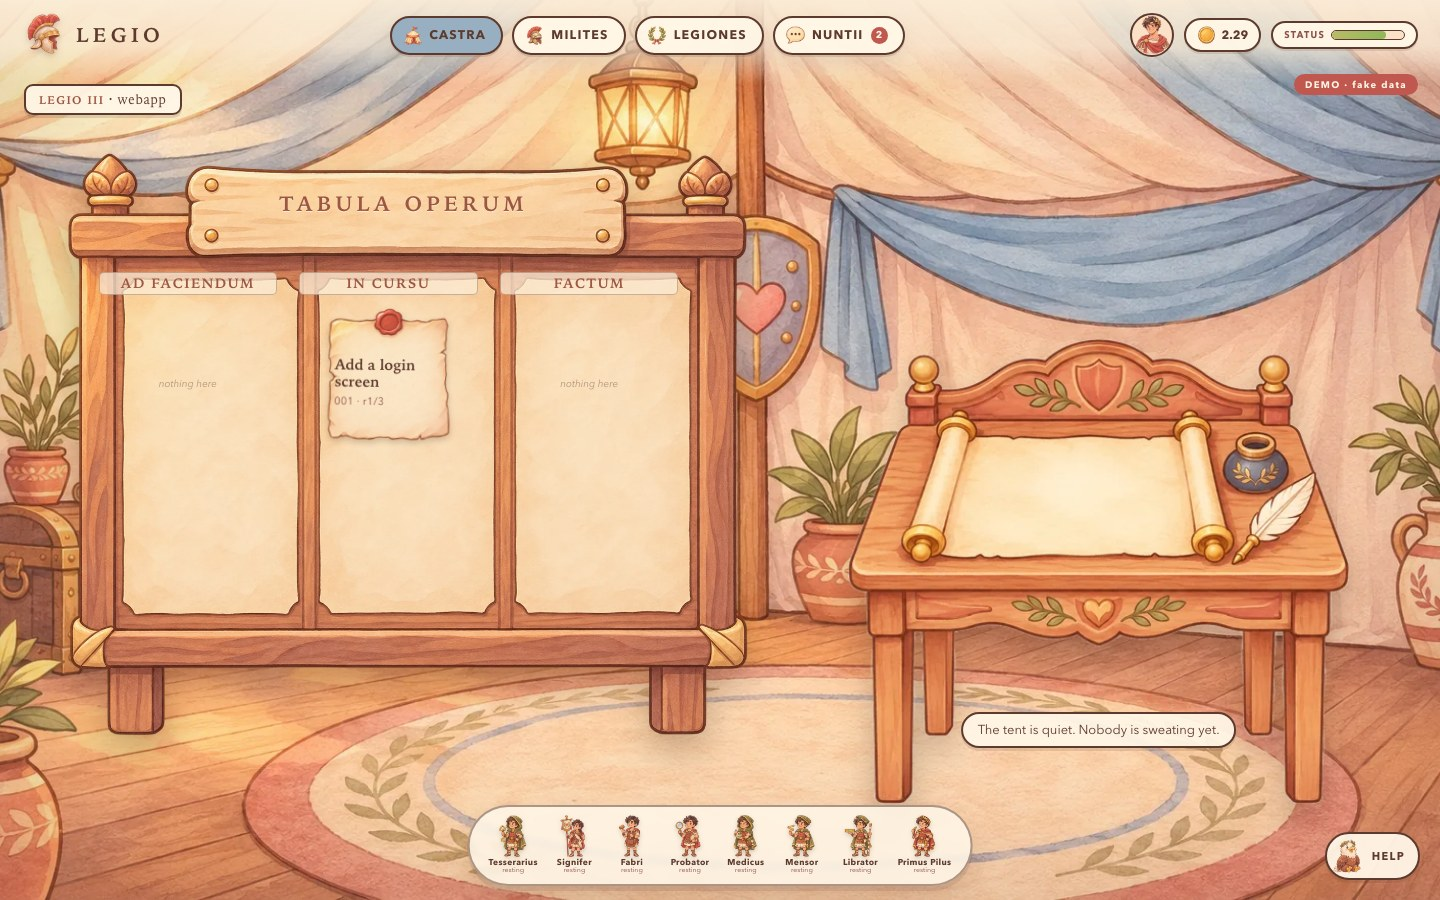
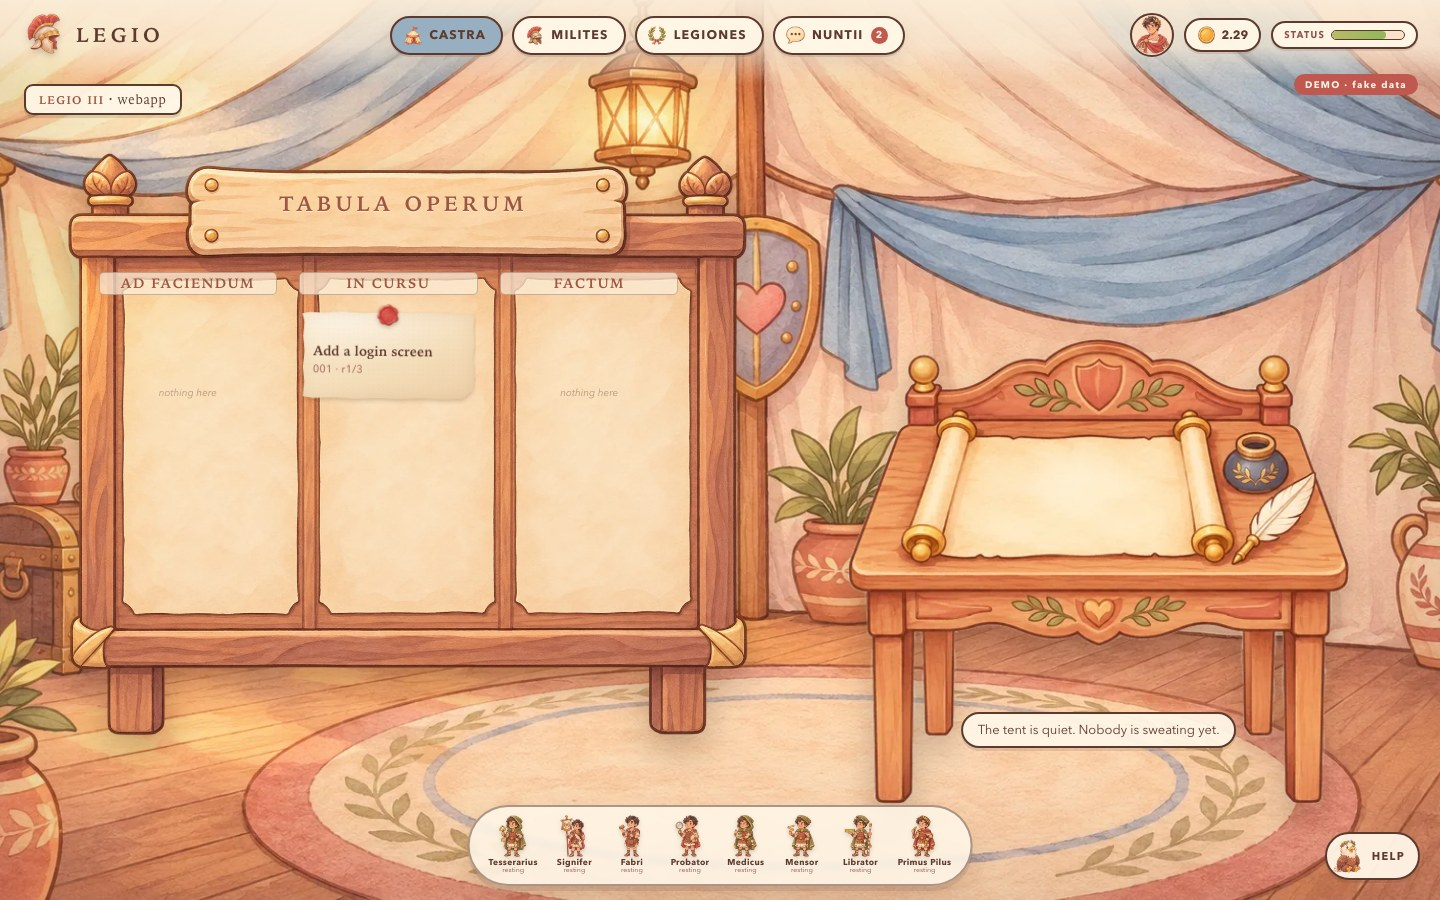
web: flatter notes, so a lane holds three or more
The square art note only let a column hold two jobs before scrolling. The
parchment is now a CSS card (ragged clip path, paper grain, warm gradient)
with the wax seal as a separate overlay that the clip path cannot swallow;
the content is compact (title, job number, round, gate, review marks, cost).
A column fits three notes, and a fourth when the titles are short.

The demo camp gains a third active job (006-sketch-the-map) so the density is
visible; screenshots refreshed.

Changed region(s): [[0.1875, 0.3422, 0.3125, 0.4978]]

diff --git a/web/styles.css b/web/styles.css
@@ -530,10 +530,10 @@ a { color: inherit; }
   width: 100%;
   display: flex;
   flex-direction: column;
-  gap: 8px;
+  gap: 6px;
   align-items: center;
   overflow-y: auto;
-  padding: 1px 0 3px;
+  padding: 10px 0 4px;
   scrollbar-width: thin;
   scrollbar-color: rgba(93, 58, 46, 0.35) transparent;
 }
@@ -545,38 +545,71 @@ a { color: inherit; }
   position: relative;
   flex: none;
   display: block;
-  width: 82%;
-  aspect-ratio: 1 / 1;
+  width: 100%;
+  min-height: 88px;
   border: 0;
   margin: 0;
-  padding: 17% 10% 7%;
-  background: url("assets/note.webp") center / 100% 100% no-repeat;
+  padding: 18px 12px 9px;
+  background: none;
   color: var(--ink);
   text-align: left;
   cursor: pointer;
   transform: rotate(var(--rot, 0deg));
-  filter: drop-shadow(0 3px 3px rgba(60, 40, 20, 0.24));
+  filter: drop-shadow(0 2px 2px rgba(60, 40, 20, 0.22));
   transition: transform 0.15s ease, filter 0.15s ease;
 }
 
-.note:nth-child(3n) { --rot: -1.1deg; }
-.note:nth-child(3n+1) { --rot: 0.7deg; }
-.note:nth-child(5n) { --rot: -0.4deg; }
+/* the parchment is a pseudo-element so the wax seal on top is not clipped */
+.note::before {
+  content: "";
+  position: absolute;
+  inset: 0;
+  z-index: 0;
+  background:
+    radial-gradient(rgba(150, 110, 60, 0.05) 0.7px, transparent 1px) 0 0 / 5px 5px,
+    radial-gradient(130% 100% at 24% 8%, rgba(255, 255, 255, 0.5),
+      rgba(255, 255, 255, 0) 55%),
+    linear-gradient(158deg, #FAE9CC 0%, #F4DDB9 60%, #EDD0A8 100%);
+  box-shadow: inset 0 0 16px rgba(166, 116, 62, 0.16);
+  clip-path: polygon(0.6% 2.5%, 5% 0.8%, 13% 1.8%, 24% 0.4%, 36% 1.6%,
+    49% 0.5%, 63% 1.7%, 76% 0.6%, 88% 1.9%, 99.3% 3%, 98.6% 16%, 99.4% 33%,
+    98.4% 52%, 99.5% 71%, 98.6% 88%, 93% 97.4%, 82% 98.6%, 70% 97.5%,
+    57% 98.8%, 44% 97.6%, 31% 98.9%, 19% 97.5%, 7% 98.7%, 1.2% 96.6%,
+    2% 80%, 1.1% 63%, 2.2% 45%, 1.2% 28%, 2% 12%);
+}
+
+.note > * { position: relative; z-index: 1; }
+
+.note-seal {
+  position: absolute;
+  top: -9px;
+  left: 50%;
+  width: 24px;
+  height: auto;
+  transform: translateX(-50%) rotate(-4deg);
+  filter: drop-shadow(0 2px 2px rgba(60, 40, 20, 0.28));
+  pointer-events: none;
+  z-index: 3;
+}
+
+.note:nth-child(3n) { --rot: -0.8deg; }
+.note:nth-child(3n+1) { --rot: 0.6deg; }
+.note:nth-child(5n) { --rot: -0.3deg; }
 
 .note:hover, .note:focus-visible {
-  transform: rotate(0deg) scale(1.03);
-  filter: drop-shadow(0 5px 6px rgba(60, 40, 20, 0.3));
+  transform: rotate(0deg) scale(1.015);
+  filter: drop-shadow(0 4px 5px rgba(60, 40, 20, 0.28)) brightness(1.02);
   outline: 2px dashed rgba(193, 88, 80, 0.55);
   outline-offset: 3px;
 }
 
 .note-title {
   display: -webkit-box;
-  -webkit-line-clamp: 3;
+  -webkit-line-clamp: 2;
   -webkit-box-orient: vertical;
   overflow: hidden;
   font-family: var(--font-display);
-  font-size: clamp(10px, 1.02vw, 15px);
+  font-size: clamp(10px, 0.95vw, 13.5px);
   font-weight: 600;
   line-height: 1.15;
   overflow-wrap: anywhere;

diff --git a/web/app.js b/web/app.js
@@ -330,6 +330,7 @@ function note(job, working) {
   }).join('');
   return `<button class="note ${working ? 'working' : ''}" type="button" data-job="${esc(job.id)}"
       title="${working ? 'a role is working on this job right now' : ''}">
+    <img class="note-seal" src="${asset('seal')}" alt="" aria-hidden="true">
     <span class="note-title">${esc(job.title)}</span>
     <span class="note-meta">${esc(job.id.split('-')[0])} · r${esc(job.round ?? 0)}/${
   esc(job.round_limit ?? 3)}${job.gate ? ` · gate ${job.gate === 'PASS' ? '✓' : '✗'}` : ''}</span>

diff --git a/web/serve.py b/web/serve.py
@@ -219,6 +219,8 @@ def demo_camp() -> dict:
                              "build", active=True),
                     demo_job("005-status-api", 5, "Serve the camp status as JSON",
                              "spec", active=True),
+                    demo_job("006-sketch-the-map", 7, "Sketch the camp map",
+                             "build", active=True),
                     demo_job("003-add-ui-to-legio", 4, "Add UI to legio",
                              "needs-human", waiting=True,
                              reviews={"probator": "PASS", "mensor": "CHANGES"},
